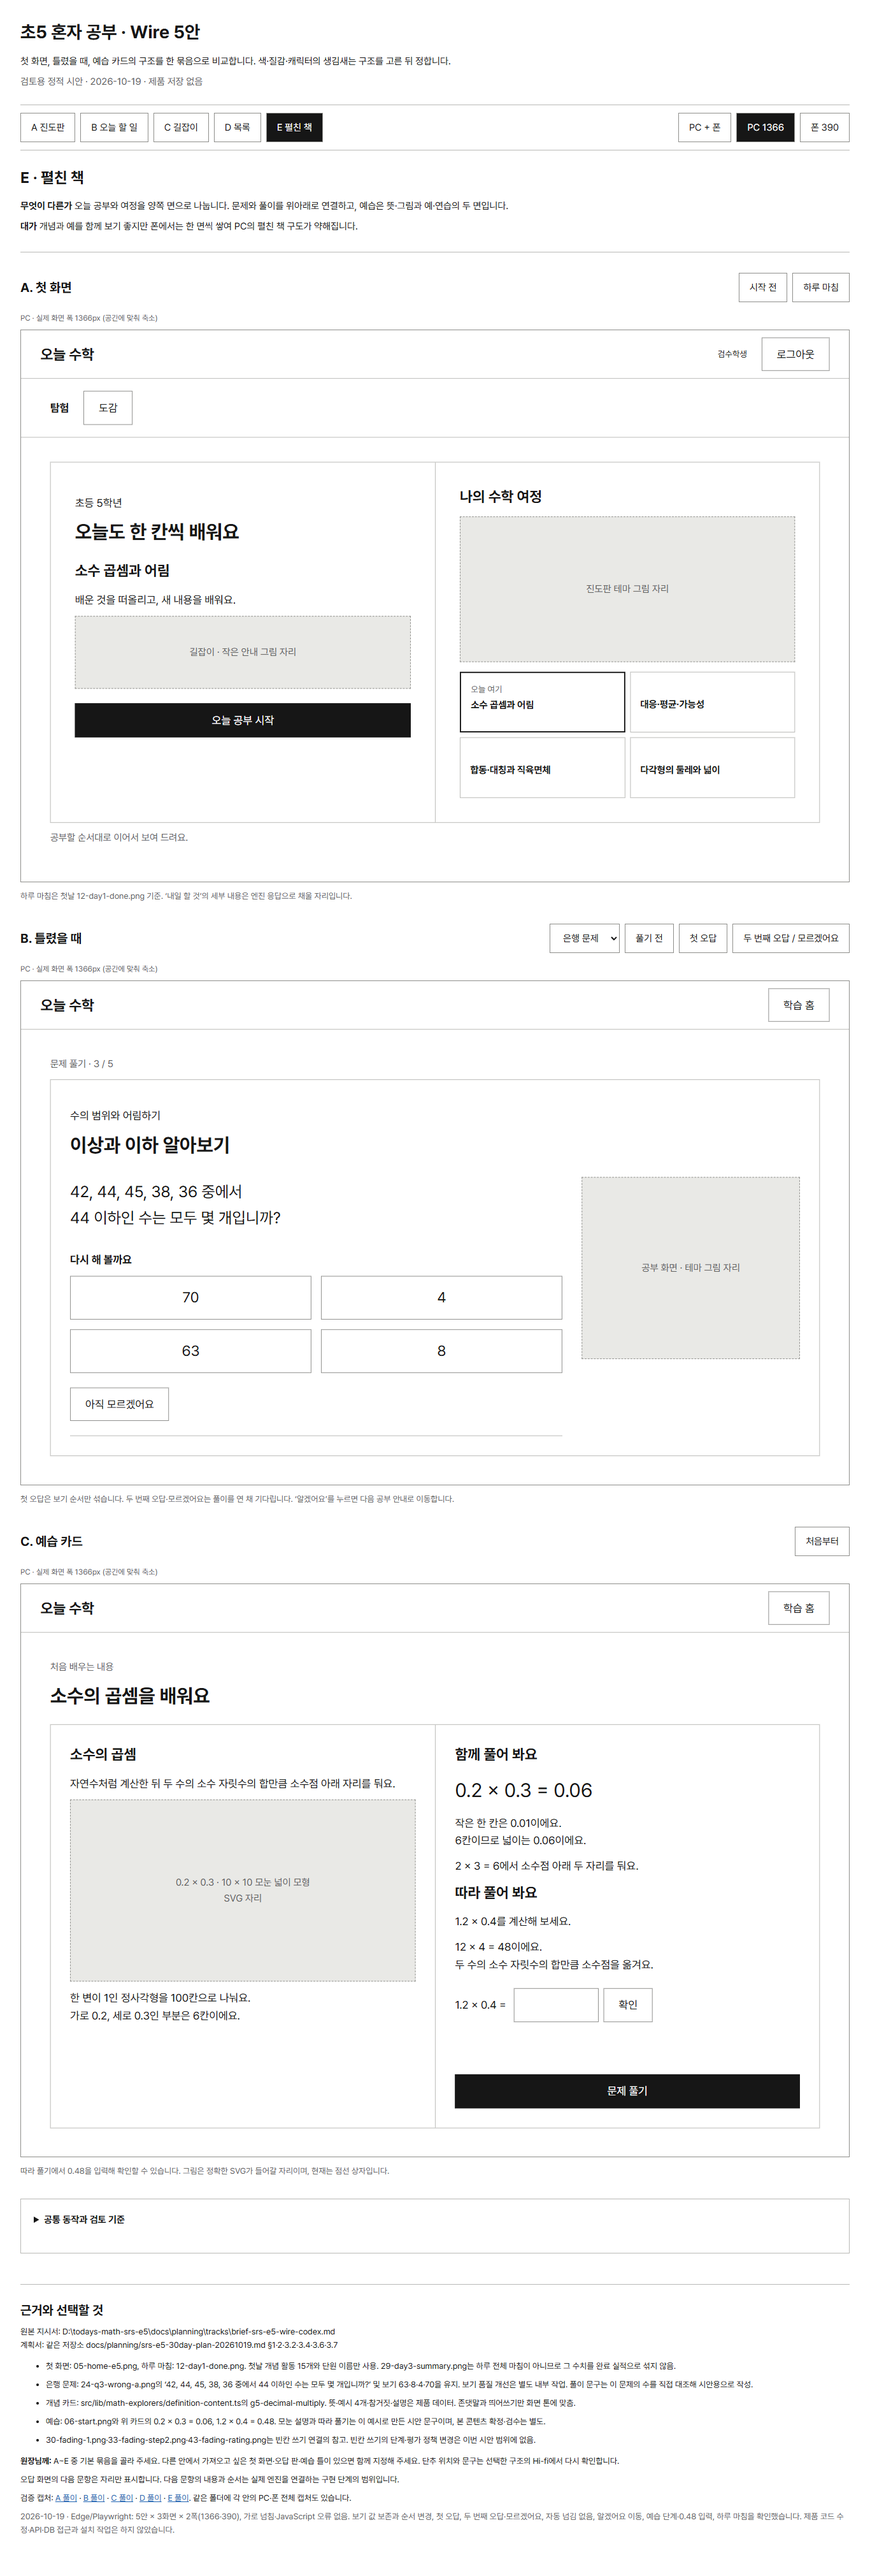
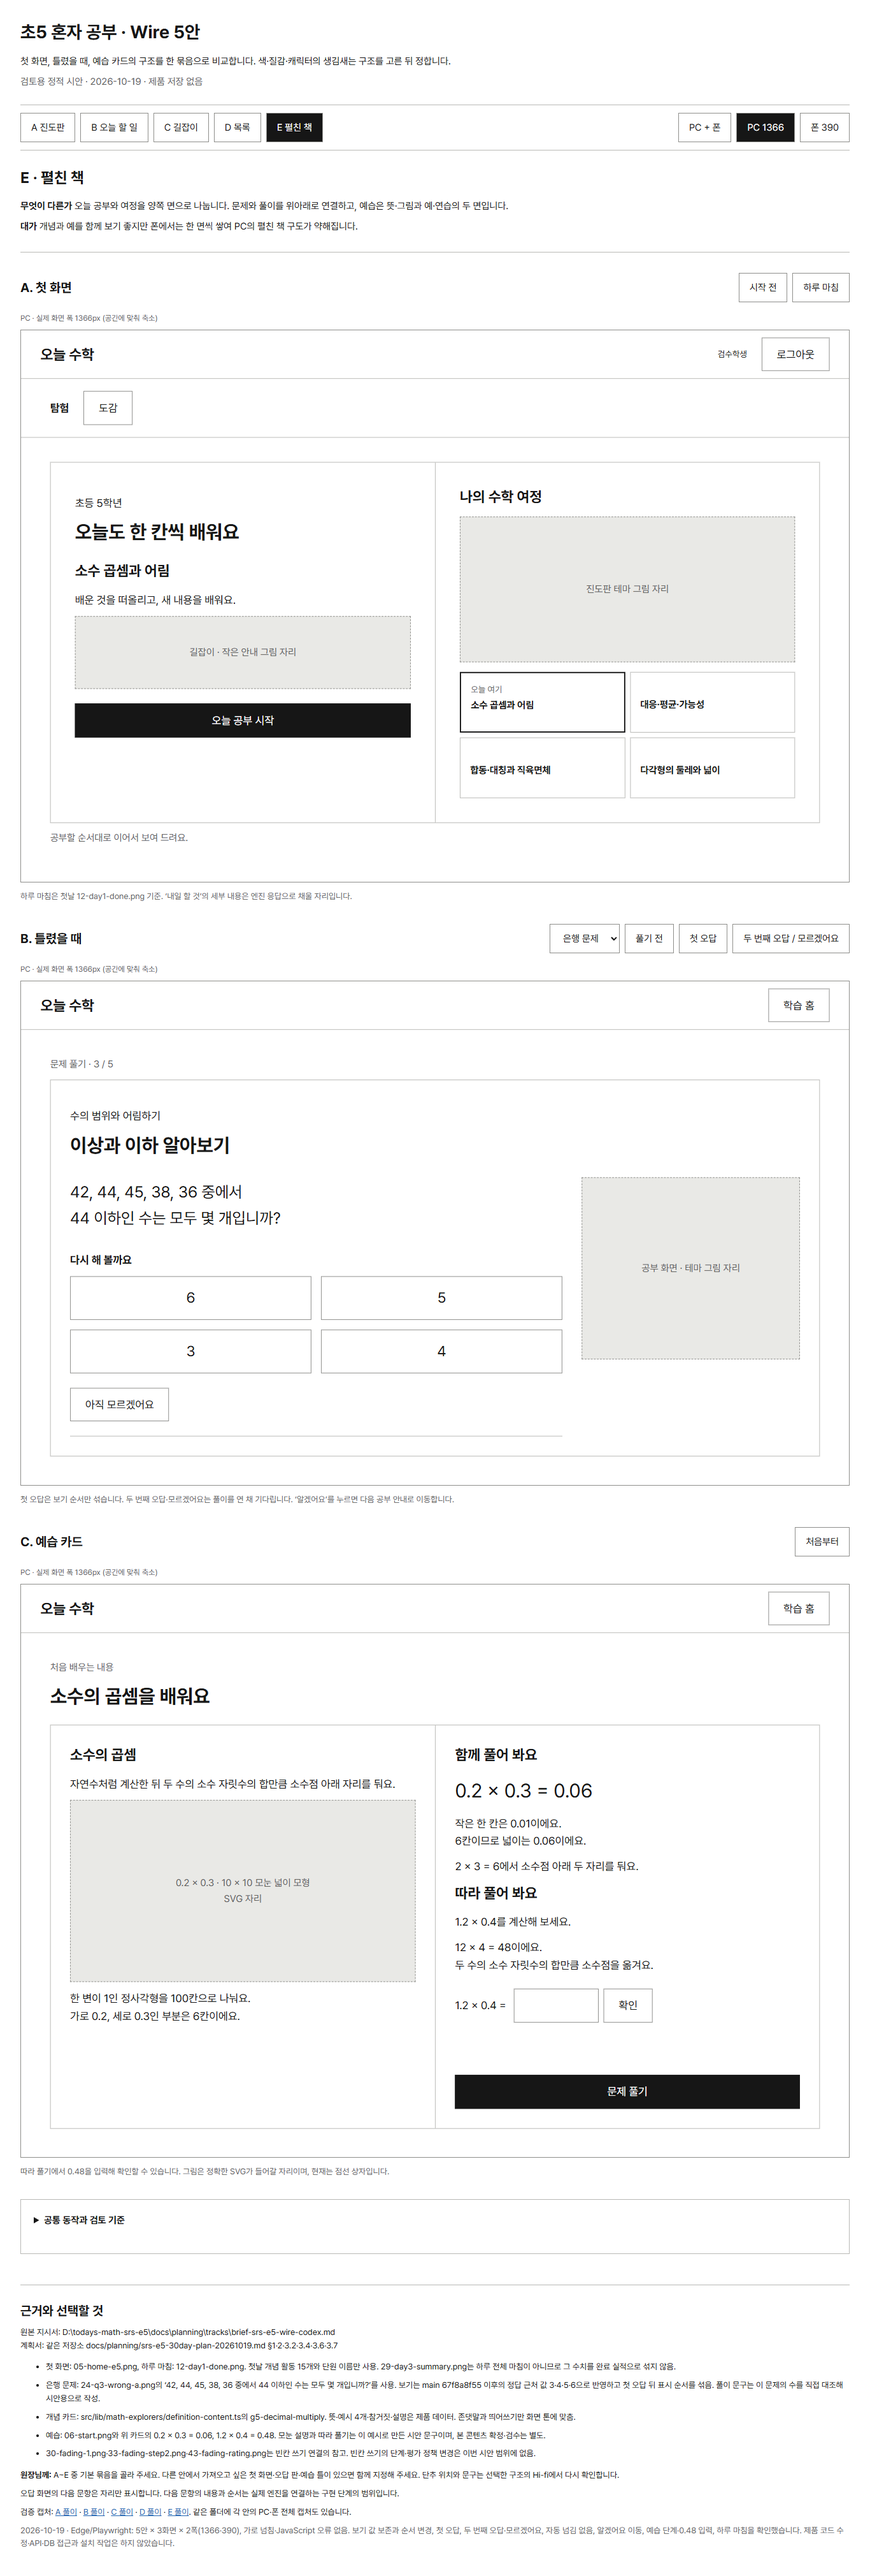
docs(srs): align wire answer choices with current distractors

diff --git a/docs/design/mockups/srs-e5-wire-20261019.html b/docs/design/mockups/srs-e5-wire-20261019.html
@@ -357,8 +357,9 @@
           </li>
           <li>
             은행 문제: 24-q3-wrong-a.png의 ‘42, 44, 45, 38, 36 중에서 44 이하인
-            수는 모두 몇 개입니까?’ 및 보기 63·8·4·70을 유지. 보기 품질 개선은
-            별도 내부 작업. 풀이 문구는 이 문제의 수를 직접 대조해 시안용으로
+            수는 모두 몇 개입니까?’를 사용. 보기는 main 67f8a8f55 이후의
+            정답 근처 값 3·4·5·6으로 반영하고 첫 오답 뒤 표시 순서를 섞음.
+            풀이 문구는 이 문제의 수를 직접 대조해 시안용으로
             작성.
           </li>
           <li>
@@ -495,8 +496,8 @@
           let values =
             s.kind === "bank"
               ? s.phase === "initial"
-                ? ["63", "8", "4", "70"]
-                : ["70", "4", "63", "8"]
+                ? ["3", "4", "5", "6"]
+                : ["6", "5", "3", "4"]
               : s.phase === "initial"
                 ? ["맞다", "아니다"]
                 : ["아니다", "맞다"];
